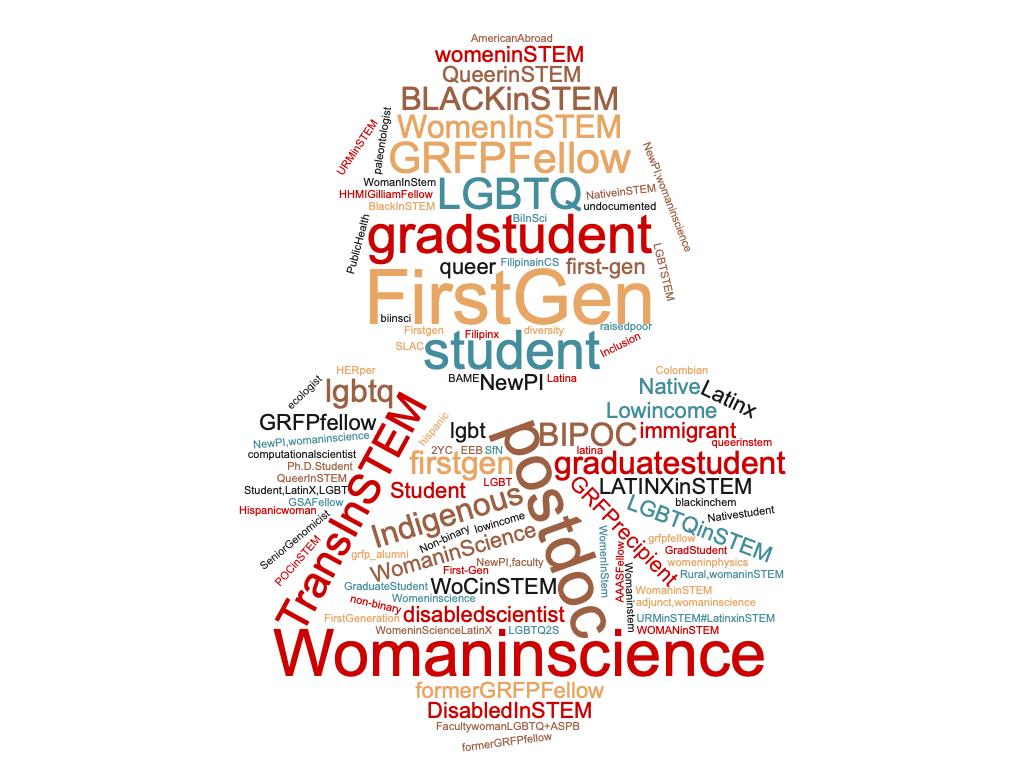
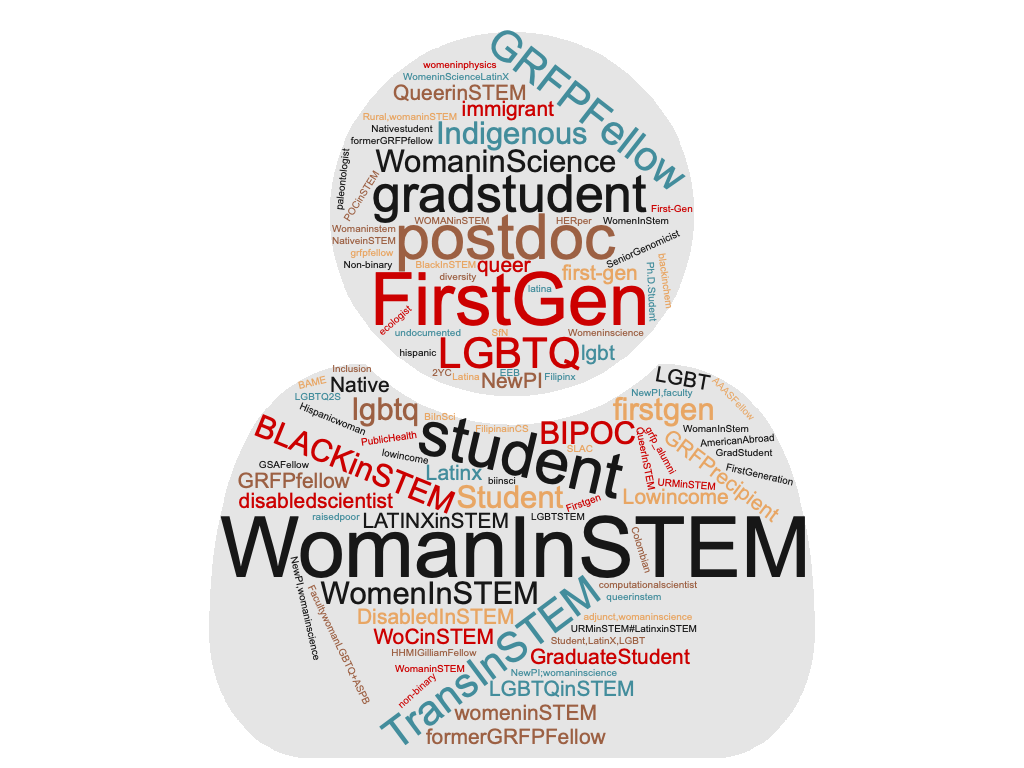
Friday 830PM signatures 20200807

diff --git a/README.md b/README.md
@@ -824,13 +824,44 @@ away!
 | Deise Goncalves                                       | Umiversity of Michigan                                                         | Biological and life sciences                                                                                                                                                                 |                             | ★                       | Research professional                           |                                                                                                                                                                                                                                                                                                                                                                                                                                                                                                                                                                                                                                                                                                                                                                                                                       |
 | Sara Gosline                                          | Pacific Northwest National Laboratory                                          | Biological and life sciences, Computer, information, and data sciences                                                                                                                       | ★                           |                         | Research professional                           |                                                                                                                                                                                                                                                                                                                                                                                                                                                                                                                                                                                                                                                                                                                                                                                                                       |
 | Kevin Lehner                                          | Colorado State University                                                      | Biological and life sciences                                                                                                                                                                 | ★                           |                         | Research professional                           |                                                                                                                                                                                                                                                                                                                                                                                                                                                                                                                                                                                                                                                                                                                                                                                                                       |
+| Leona Flores                                          | Salk Institute                                                                 | Biological and life sciences                                                                                                                                                                 |                             |                         | Research professional                           |                                                                                                                                                                                                                                                                                                                                                                                                                                                                                                                                                                                                                                                                                                                                                                                                                       |
+| Nelson E. Sepúlveda-Ramos*                            | Georgia Institute of Technology                                                | Engineering                                                                                                                                                                                  | ★                           |                         | Graduate student                                |                                                                                                                                                                                                                                                                                                                                                                                                                                                                                                                                                                                                                                                                                                                                                                                                                       |
+| Samuel Mehr*                                          | Harvard University                                                             | Social, behavioral, and economic sciences                                                                                                                                                    |                             |                         | Academic faculty                                |                                                                                                                                                                                                                                                                                                                                                                                                                                                                                                                                                                                                                                                                                                                                                                                                                       |
+| Amanda Iglesias                                       | University of Michigan                                                         | Biological and life sciences                                                                                                                                                                 | ★                           |                         | Graduate student                                |                                                                                                                                                                                                                                                                                                                                                                                                                                                                                                                                                                                                                                                                                                                                                                                                                       |
+| Catherine Dang Wu                                     | University of California, Los Angeles                                          | Biological and life sciences                                                                                                                                                                 | ★                           |                         | Post-Bacc applying for graduate school          |                                                                                                                                                                                                                                                                                                                                                                                                                                                                                                                                                                                                                                                                                                                                                                                                                       |
+| Ali Farhat                                            | University of Michigan-Ann Arbor                                               | Biological and life sciences, Mathematical and physical sciences                                                                                                                             |                             |                         | Graduate student                                |                                                                                                                                                                                                                                                                                                                                                                                                                                                                                                                                                                                                                                                                                                                                                                                                                       |
+| Arianna Kazez                                         | UC Berkeley                                                                    | Mathematical and physical sciences                                                                                                                                                           | ★                           |                         | Graduate student                                |                                                                                                                                                                                                                                                                                                                                                                                                                                                                                                                                                                                                                                                                                                                                                                                                                       |
+| Amanda Gibson                                         | University of Michigan                                                         | Biological and life sciences                                                                                                                                                                 | ★                           |                         | Graduate student                                |                                                                                                                                                                                                                                                                                                                                                                                                                                                                                                                                                                                                                                                                                                                                                                                                                       |
+| Kerry Mauck                                           | University of California, Riverside                                            | Biological and life sciences                                                                                                                                                                 | ★                           | ★                       | Academic faculty                                |                                                                                                                                                                                                                                                                                                                                                                                                                                                                                                                                                                                                                                                                                                                                                                                                                       |
+| Karina Brocco French                                  | University of California, Irvine                                               | Biological and life sciences                                                                                                                                                                 | ★                           |                         | Graduate student                                |                                                                                                                                                                                                                                                                                                                                                                                                                                                                                                                                                                                                                                                                                                                                                                                                                       |
+| Brianna Mims                                          | University of Michigan                                                         | Biological and life sciences                                                                                                                                                                 | ★                           |                         | Graduate student                                |                                                                                                                                                                                                                                                                                                                                                                                                                                                                                                                                                                                                                                                                                                                                                                                                                       |
+| William F. Burkholder                                 | CZ Biohub                                                                      | Biological and life sciences                                                                                                                                                                 |                             | ★                       | Academic staff/administrative                   |                                                                                                                                                                                                                                                                                                                                                                                                                                                                                                                                                                                                                                                                                                                                                                                                                       |
+| Sarah Carey                                           | Auburn University                                                              | Biological and life sciences                                                                                                                                                                 | ★                           |                         | Postdoc                                         |                                                                                                                                                                                                                                                                                                                                                                                                                                                                                                                                                                                                                                                                                                                                                                                                                       |
+| Jasen Liu                                             | University of California, Davis                                                | Biological and life sciences                                                                                                                                                                 | ★                           |                         | Graduate student                                |                                                                                                                                                                                                                                                                                                                                                                                                                                                                                                                                                                                                                                                                                                                                                                                                                       |
+| Olga Botvinnik                                        | Chan Zuckerberg Biohub                                                         | Biological and life sciences, Computer, information, and data sciences                                                                                                                       | ★                           |                         | Research professional                           | Thank you for doing this, Jason!                                                                                                                                                                                                                                                                                                                                                                                                                                                                                                                                                                                                                                                                                                                                                                                      |
+| Jennifer Robison                                      | Manchester University                                                          | Biological and life sciences                                                                                                                                                                 | ★                           |                         | Academic faculty                                |                                                                                                                                                                                                                                                                                                                                                                                                                                                                                                                                                                                                                                                                                                                                                                                                                       |
+| Christine Olson                                       | UCLA                                                                           | Biological and life sciences                                                                                                                                                                 | ★                           |                         | Graduate student                                |                                                                                                                                                                                                                                                                                                                                                                                                                                                                                                                                                                                                                                                                                                                                                                                                                       |
+| Corey Welch                                           | Iowa State University                                                          | Biological and life sciences, Computer, information, and data sciences, Engineering, Geosciences, Mathematical and physical sciences                                                         |                             |                         | Academic staff/administrative                   | I co-run a multi-institution Grant Writing workshop through SACNAS chapters.                                                                                                                                                                                                                                                                                                                                                                                                                                                                                                                                                                                                                                                                                                                                          |
+| Ameet Pinto                                           | Northeastern University                                                        | Engineering                                                                                                                                                                                  |                             | ★                       | Academic faculty                                |                                                                                                                                                                                                                                                                                                                                                                                                                                                                                                                                                                                                                                                                                                                                                                                                                       |
+| Thomas Houpt                                          | Florida State University                                                       | Biological and life sciences                                                                                                                                                                 | ★                           |                         | Academic faculty                                |                                                                                                                                                                                                                                                                                                                                                                                                                                                                                                                                                                                                                                                                                                                                                                                                                       |
+| John Fonner                                           | Texas Advanced Computing Center                                                | Biological and life sciences                                                                                                                                                                 |                             | ★                       | Academic staff/administrative                   |                                                                                                                                                                                                                                                                                                                                                                                                                                                                                                                                                                                                                                                                                                                                                                                                                       |
+| Jaime Hibbard                                         | The University of Texas at Austin                                              | Biological and life sciences                                                                                                                                                                 | ★                           |                         | Graduate student                                |                                                                                                                                                                                                                                                                                                                                                                                                                                                                                                                                                                                                                                                                                                                                                                                                                       |
+| Margaret Frank                                        | Cornell University                                                             | Biological and life sciences                                                                                                                                                                 | ★                           | ★                       | Academic faculty                                |                                                                                                                                                                                                                                                                                                                                                                                                                                                                                                                                                                                                                                                                                                                                                                                                                       |
+| Matthew Clark                                         | Bucknell University                                                            | Biological and life sciences                                                                                                                                                                 | ★                           |                         | Academic faculty                                |                                                                                                                                                                                                                                                                                                                                                                                                                                                                                                                                                                                                                                                                                                                                                                                                                       |
+| Paul Hohenlohe                                        | University of Idaho                                                            | Biological and life sciences                                                                                                                                                                 | ★                           | ★                       | Academic faculty                                |                                                                                                                                                                                                                                                                                                                                                                                                                                                                                                                                                                                                                                                                                                                                                                                                                       |
+| Dmitry Kondrashov                                     | University of Chicago                                                          | Biological and life sciences, Mathematical and physical sciences                                                                                                                             |                             |                         | Academic faculty                                |                                                                                                                                                                                                                                                                                                                                                                                                                                                                                                                                                                                                                                                                                                                                                                                                                       |
+| Courtney Leisner                                      | Auburn University                                                              | Biological and life sciences, Computer, information, and data sciences                                                                                                                       | ★                           |                         | Academic faculty                                |                                                                                                                                                                                                                                                                                                                                                                                                                                                                                                                                                                                                                                                                                                                                                                                                                       |
+| Noah Dukler                                           | Cold Spring Harbor Laboratory                                                  | Biological and life sciences, Computer, information, and data sciences                                                                                                                       | ★                           |                         | Post-doc                                        |                                                                                                                                                                                                                                                                                                                                                                                                                                                                                                                                                                                                                                                                                                                                                                                                                       |
+| Jonathan M. Jacobs*                                   | The Ohio State University                                                      | Biological and life sciences                                                                                                                                                                 | ★                           | ★                       | Academic faculty                                |                                                                                                                                                                                                                                                                                                                                                                                                                                                                                                                                                                                                                                                                                                                                                                                                                       |
+| Jordan Sosa                                           | Harvard University                                                             | Engineering, Mathematical and physical sciences                                                                                                                                              | ★                           |                         | Graduate student                                |                                                                                                                                                                                                                                                                                                                                                                                                                                                                                                                                                                                                                                                                                                                                                                                                                       |
+| Fernando Nieto                                        | SUNY Old Westbury                                                              | Biological and life sciences                                                                                                                                                                 |                             |                         | Academic faculty                                |                                                                                                                                                                                                                                                                                                                                                                                                                                                                                                                                                                                                                                                                                                                                                                                                                       |
 
 
 ----
 
 \* This individual is a co-author of this letter
 
-Last updated 5:25PM Eastern, Thursday August 6, 2020.
+Last updated 8:30PM Eastern, Friday August 7, 2020.
 
 
 **Diversity Word Cloud**
